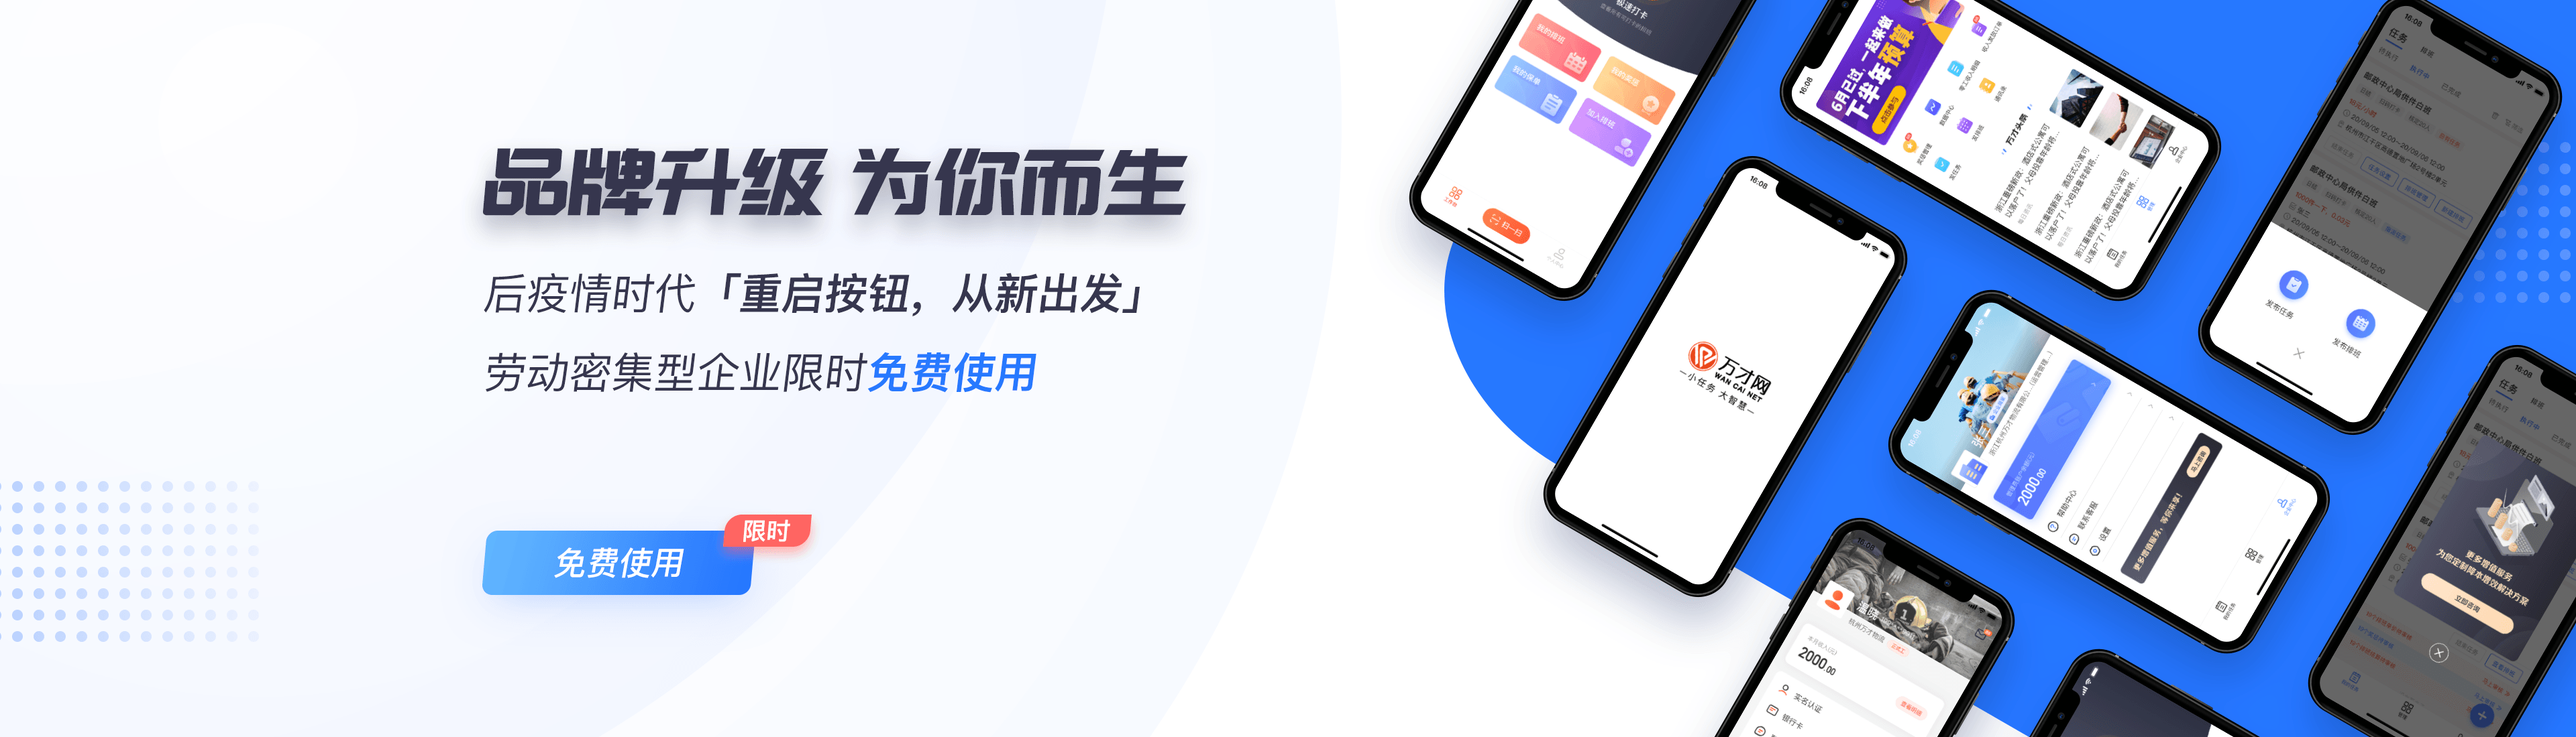
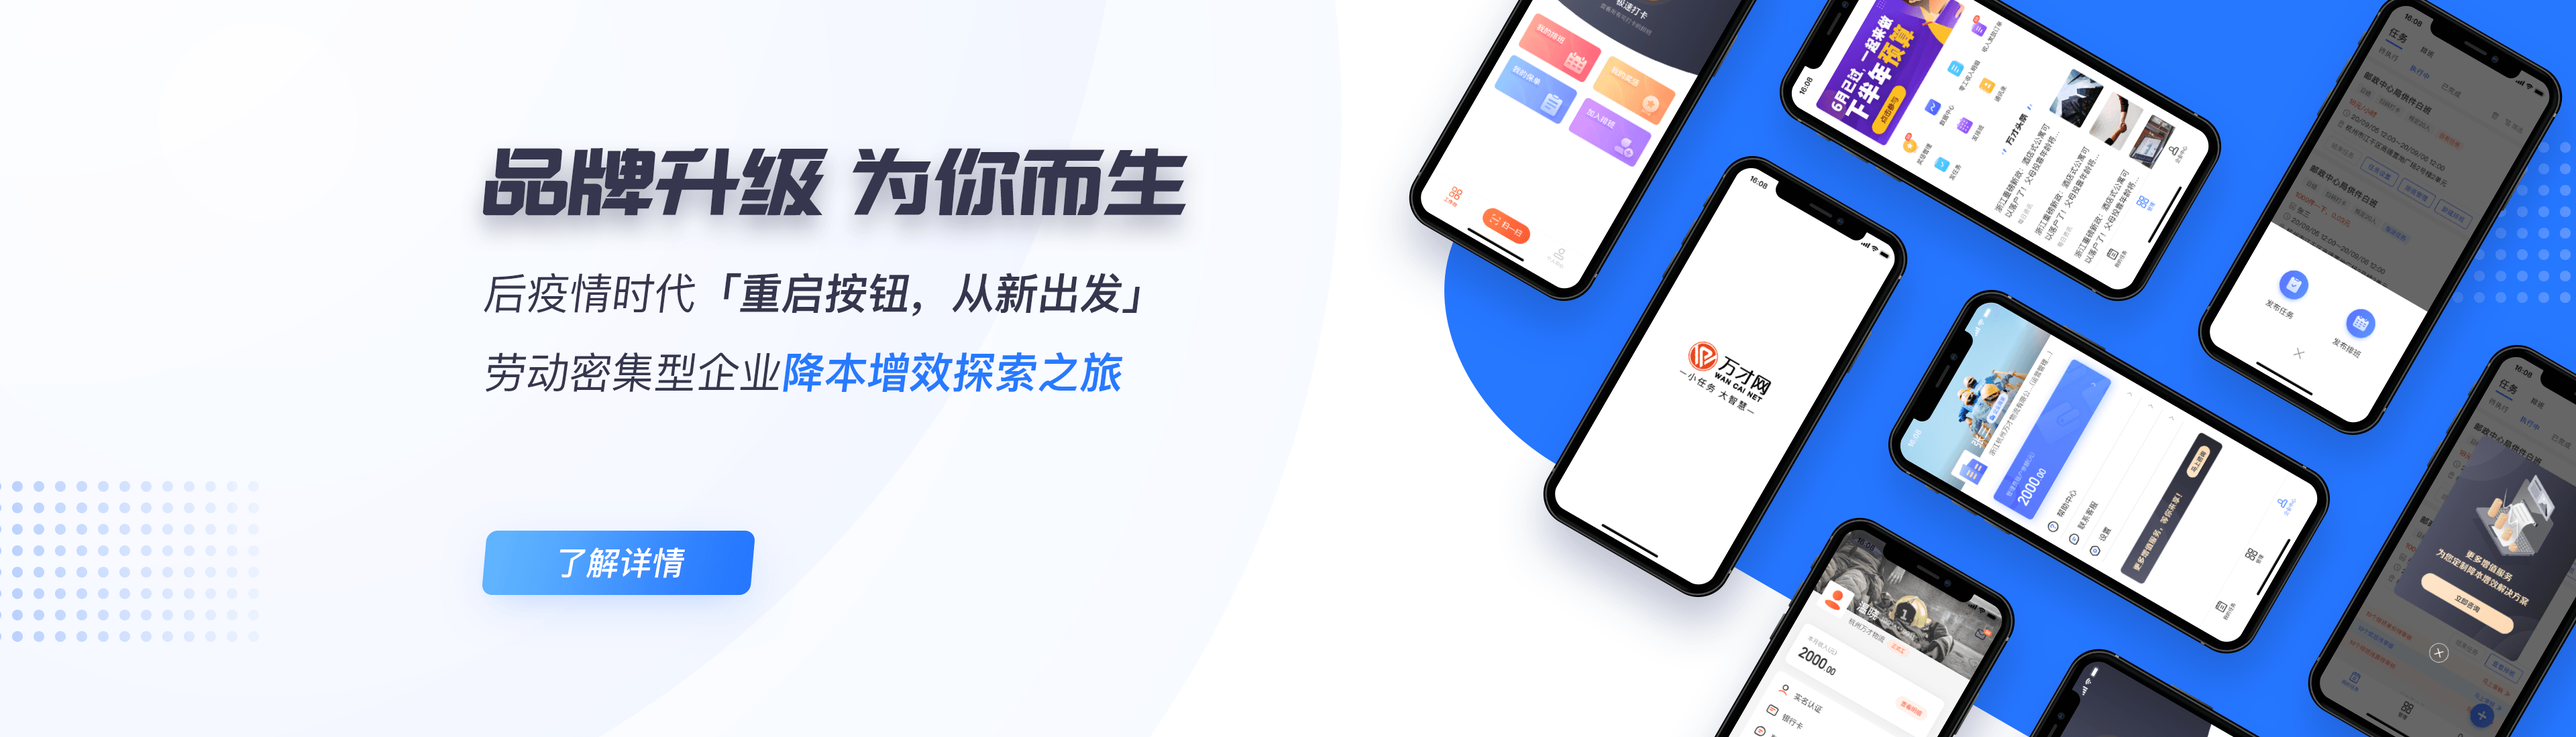
wip

Changed region(s): [[0.2812, 0.4636, 0.4375, 0.5564], [0.2188, 0.68, 0.3125, 0.8036], [0.7188, 0.1236, 0.75, 0.1855]]

diff --git a/pages/stupidAi.vue b/pages/stupidAi.vue
@@ -1,0 +1,126 @@
+<template>
+  <div class="stupidAiCon">
+      <div class="imgCollection">
+          <div class="part1 commonPart"></div>
+          <div class="part2 commonPart"></div>
+          <div class="part3 commonPart"></div>
+          <div class="part4 commonPart"></div>
+          <div class="part5 commonPart"></div>
+          <div class="part6 commonPart"></div>
+        </div>
+      <div class="fixItem">
+          <div class="divideCon">
+              <div class="divideItem"></div>
+              <div class="divideItem">
+                  <div class="fakeBtn" @click="popTrail"></div>
+                </div>
+            </div>
+        </div>
+  </div>
+</template>
+<script>
+export default {
+  layout:'empty',
+  data () {
+    return {
+    }
+  },
+  head() {
+    return {
+      title: '万才网',
+      meta: [
+        {
+          hid: 'keywords',
+          name: 'keywords',
+          content: '万才网，万才科技，万才经理人，灵活用工，社保入税，临时用工，劳动力管理，劳动力管理系统，考勤系统，排班系统，智能排班，财税统筹，财税咨询，社保改革，人力资源管理系统，人力资源管理软件，员工商业保险。'
+        },
+        {
+          hid: 'description',
+          name: 'description',
+          content: '万才网为企业，外包公司和新业态从业人员提供三方交互桥梁，帮助企业定制社保入税后灵活用工的合法合规使用方案，另有灵活用工管理，财税统筹，商业保险等服务，帮助企业降低用工风险，实现财税优化，真正做到降本增效，提升企业的生存空间'
+        }
+      ]
+    }
+  },
+  mounted(){
+  },
+    methods:{
+        popTrail(){
+            this.$parent.$parent.dialogVisible = true;
+        },
+    },
+}
+</script>
+<style lang="scss" scoped>
+    .stupidAiCon {
+        position: relative;
+        .imgCollection {
+        }
+        .commonPart {
+            background-repeat: no-repeat;
+            background-size:cover;
+            background-position: center center;    
+            max-width: 1920px;
+            margin: 0 auto;
+        }
+        .part1 {
+            height: 716px;
+            background-image: url("../assets/img/stupid/p1_july.png");
+        }
+        .part2 {
+            height: 716px;
+            background-image: url("../assets/img/stupid/p2_july.png");
+        }
+        .part3 {
+            height: 752px;
+            background-image: url("../assets/img/stupid/p3_july.png");
+        }
+        .part4 {
+            height: 756px;
+            background-image: url("../assets/img/stupid/p4_july.png");
+        }
+        .part5 {
+            height: 754px;
+            background-image: url("../assets/img/stupid/p5_july.png");
+        }
+        .part6 {
+            height: 619px;
+            background-image: url("../assets/img/stupid/p6_july.png");
+        }
+        .fixItem {
+            max-width: 1920px;
+            margin: 0 auto;
+            height: 277px;
+            position: fixed;
+            bottom: 0;
+            left: 0;
+            right: 0;
+            background-repeat: no-repeat;
+            background-size:cover;
+            background-position: center center;  
+            background-image: url("../assets/img/stupid/fixedbar_july.png");
+            
+            .divideCon {
+                width: 100%;
+                height: 100%;
+                display: flex;
+                justify-content: center;
+                align-content: center;
+                align-items: center;
+                .divideItem {
+                    position: relative;
+                    width: 50%;
+                    height: 100%;
+                }
+                .fakeBtn {
+                    position: absolute;
+                    left: 410px;
+                    bottom: 30px;
+                    height: 60px;
+                    width: 200px;
+                    cursor: pointer;
+                }
+            }
+        }
+    }
+</style>

diff --git a/pages/index.vue b/pages/index.vue
@@ -1,13 +1,13 @@
 <template>
   <div class="wc-3-home">
-    <div class="banner" @click="toLanding">
-        <div class="divideCon">
-            <div class="divideItem">
-                <div class="fakeTryBtn" @click="popTrail"></div>
+        <div class="headContainer">
+            <div class="swiper-container">
+                <div class="swiper-wrapper" >
+                    <div class="swiper-slide banner" @click="toStupidAi"></div>
+                    <div class="swiper-slide banner1" @click="toLanding"></div>
+                </div>
             </div>
-            <div class="divideItem"></div>
         </div>
-    </div>
       <div class="sassCon">
           <div class="sassItemCon">
               <div class="sassItemSelf itemFirst">
@@ -179,17 +179,38 @@
       }
     },
     mounted() {
+        this.initSwiper();
         this.getList();
         this.getTaskArr();
     },
     methods: {
+        initSwiper(){
+            this.swiperBridge = new Swiper ('.swiper-container', {
+                direction: 'horizontal', 
+                loop: true, 
+                autoplay:true,
+               /* pagination: {
+                  el: '.swiper-pagination',
+                },*/
+                on:{
+                    click: function(){
+//                      alert('你点了Swiper');
+                    },
+                  },
+            }) 
+        },
         toLanding(){
             this.$router.push({
                path:'landing'
             });
         },
+        toStupidAi(){
+            this.$router.push({
+               path:'stupidAi'
+            });
+        },
         popTrail(){
-//            this.$parent.$parent.dialogVisible = true;
+            this.$parent.$parent.dialogVisible = true;
         },
         moreAction(){
             this.$store.commit('SET_IS_WHITE',true)
@@ -305,15 +326,19 @@
     background-color: #fff;
     max-width: 1920px;
     margin: 0 auto 0;
+      .headContainer {
+          z-index: 10;
+            position: relative;
+            max-width: 1920px;
+            height: 550px;   
+      }
     .banner {
         z-index: 10;
         position: relative;
         max-width: 1920px;
         height: 550px;        
-/*      background: url("../assets/img/index_banner.png") no-repeat center center;*/
-        background: url("../assets/img/bannersp.png") no-repeat center center;
+        background: url("../assets/img/banner_july.png") no-repeat center center;
         background-size:cover;
-        cursor:pointer;
         .divideCon {
             display: flex;
             justify-content: center;
@@ -327,7 +352,35 @@
                     z-index: 50;
                     cursor: pointer;
                     position: absolute;
-                    bottom: 100px;
+                    bottom: 190px;
+                    left: 0;
+                    height: 58px;
+                    width: 200px;
+                }
+            }
+        }
+    }
+      .banner1 {
+        z-index: 10;
+        position: relative;
+        max-width: 1920px;
+        height: 550px;        
+        background: url("../assets/img/bannersp.png") no-repeat center center;
+        background-size:cover;
+        .divideCon {
+            display: flex;
+            justify-content: center;
+            height: 100%;
+            width: 1200px;
+            margin: 0 auto;
+            .divideItem {
+                width: 50%;
+                position: relative;                
+                .fakeTryBtn {
+                    z-index: 50;
+                    cursor: pointer;
+                    position: absolute;
+                    bottom: 190px;
                     left: 0;
                     height: 58px;
                     width: 200px;

diff --git a/components/home/footerNav.vue b/components/home/footerNav.vue
@@ -40,8 +40,8 @@ export default {
   data () {
     return {
         qrcodeArr:[
-            { src:require('../../assets/img/footerComp.png'),text:'万才企业版' },
-            { src:require('../../assets/img/footerPerson.png'),text:'万才个人版' },
+            { src:require('../../assets/img/qiye.png'),text:'万才企业版' },
+            { src:require('../../assets/img/geren.png'),text:'万才个人版' },
              { src:require('../../assets/img/b84b53a.png'),text:'微信公众号' },            
         ],
       items: [{

diff --git a/service/index.js b/service/index.js
@@ -1,6 +1,4 @@
 import axios from 'axios'
-// import { Message } from 'element-ui'
-// import qs from 'qs'
 import config from './config'
 console.log(process.env.NODE_ENV)
 if(process.env.NODE_ENV ==="development"){
